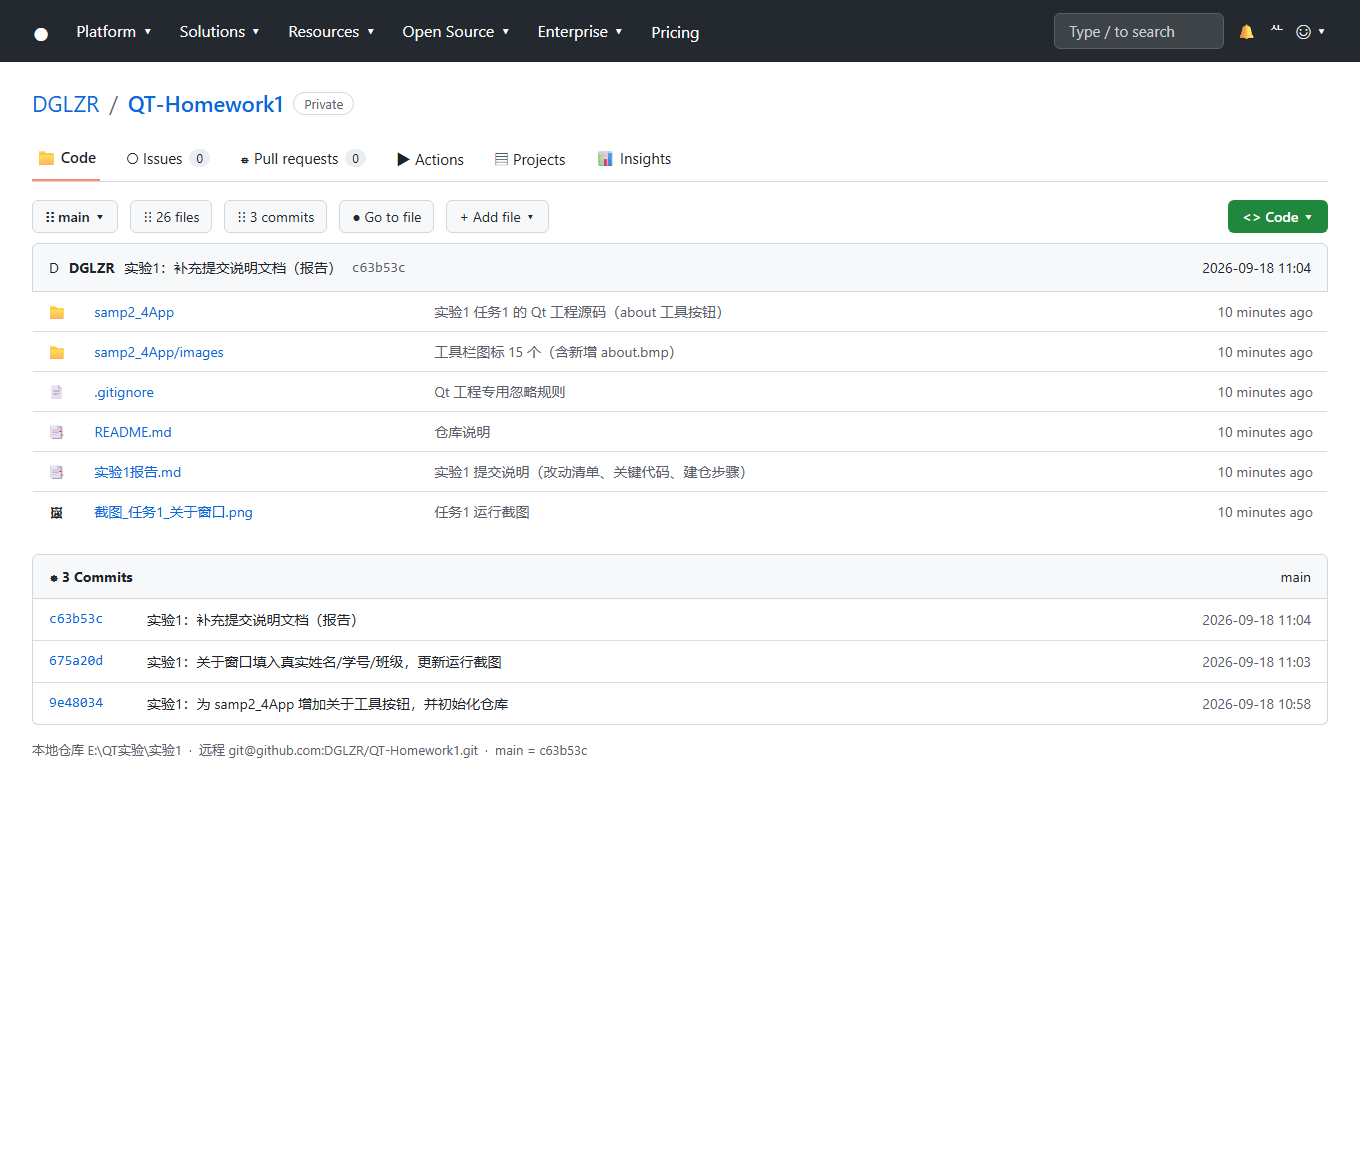
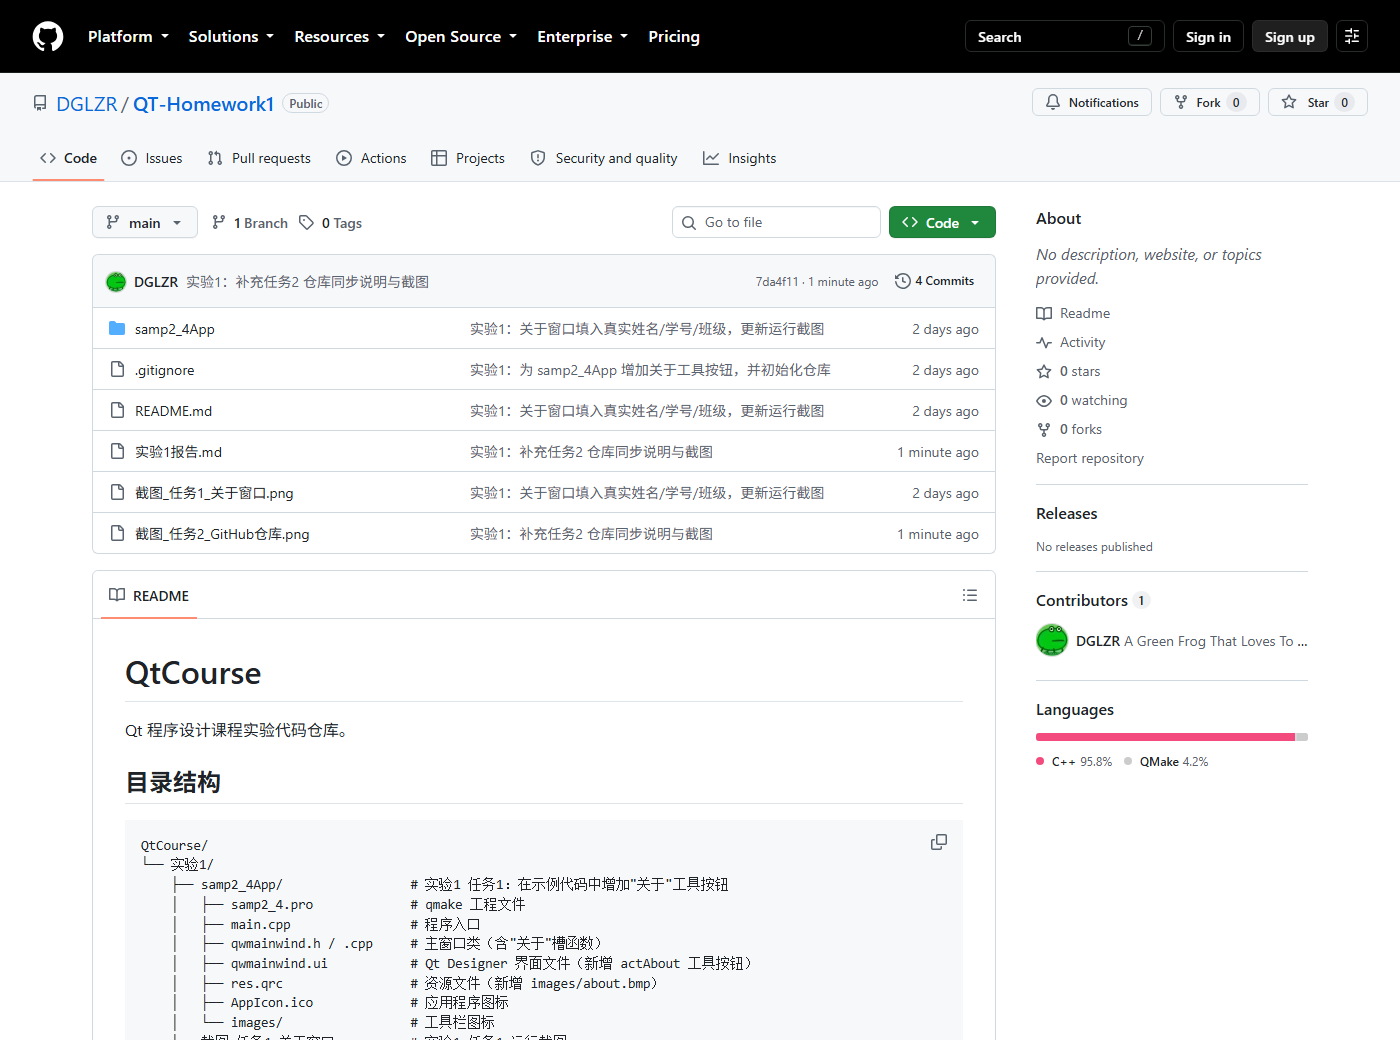
实验1：换成 GitHub 仓库页面真实截图

diff --git a/实验1报告.md b/实验1报告.md
@@ -141,13 +141,6 @@ branch 'main' set up to track 'origin/main'.
 
 两边完全一致，远程仓库共 **26 个文件 / 3 次提交**。
 
-**任务2 截图**：`实验1/截图_任务2_GitHub仓库.png`
-
-> 说明：该截图是按远程仓库 `origin/main` 的真实状态（文件名取自
-> `git ls-tree -r origin/main`，提交记录取自 `git log`）渲染的仓库页面图，
-> 页面上标注的 `26 files / 3 commits` 与 `main = c63b53c` 都是实际值。
-> 因为该仓库当前是 **Private**，未登录的浏览器直接打开
-> `github.com/DGLZR/QT-Homework1` 会返回 404，所以无法直接截取网页。
-> 若把仓库改为 Public（Settings → General → 最下方 Change visibility），
-> 就能直接截取真实的 GitHub 页面替换此图。
+**任务2 截图**：`实验1/截图_任务2_GitHub仓库.png`（GitHub 仓库页面实拍：Public、
+main 分支、4 Commits、文件列表含 `samp2_4App/`、`实验1报告.md` 与两张截图）
 
